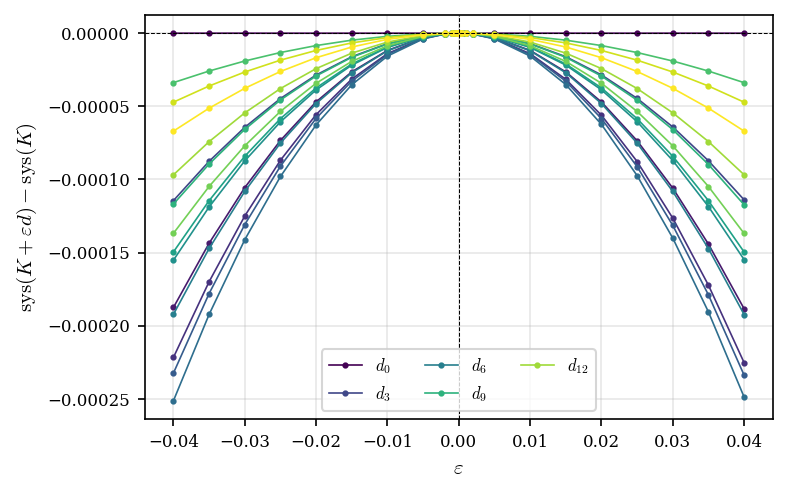
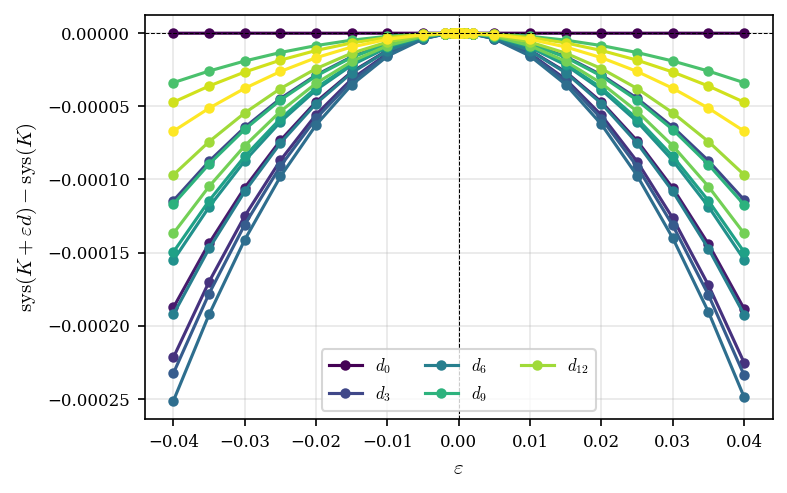
Address review findings: add math.tex TODO, use figure_config constants

diff --git a/crates/exp-hko-local-maximum/second-order/analyze.py b/crates/exp-hko-local-maximum/second-order/analyze.py
@@ -17,7 +17,7 @@ import numpy as np
 from scipy.optimize import linprog
 
 sys.path.insert(0, str(Path(__file__).resolve().parent.parent.parent))
-from figure_config import setup, FIGSIZE_SINGLE
+from figure_config import setup, FIGSIZE_SINGLE, MARKER_SIZE, LINE_WIDTH
 
 import matplotlib.pyplot as plt
 
@@ -196,7 +196,7 @@ def plot_curves(base, curves, dir_curvatures):
         rows = sorted(by_dir[d_idx], key=lambda r: r["epsilon"])
         eps = [r["epsilon"] for r in rows]
         delta = [r["sys"] - sys_base for r in rows]
-        ax.plot(eps, delta, 'o-', color=colors[d_idx], markersize=2, linewidth=0.8,
+        ax.plot(eps, delta, 'o-', color=colors[d_idx], markersize=MARKER_SIZE, linewidth=LINE_WIDTH,
                 label=f"$d_{{{d_idx}}}$" if d_idx % 3 == 0 else None)
 
     ax.axhline(0, color='k', linewidth=0.5, linestyle='--')

diff --git a/crates/exp-hko-local-maximum/second-order/run.rs b/crates/exp-hko-local-maximum/second-order/run.rs
@@ -160,6 +160,11 @@ fn ehz_capacity_instrumented(polytope: &Polytope4D) -> Option<InstrumentedResult
 ///
 /// ∇_{a_i} sys = (c · ∇_{a_i} c_orbit - sys · ∇_{a_i} vol) / vol
 ///
+/// This is the quotient rule applied to sys = c²/(2·vol):
+/// ∂sys/∂a_k = (c/vol) · ∂c/∂a_k − (sys/vol) · ∂vol/∂a_k.
+/// Per-orbit: uses ∂c_i/∂a_k from [lem:cap-derivative] and ∂vol/∂a_k from [lem:vol-derivative].
+/// // TODO: add [lem:sys-derivative] to math.tex — quotient rule for sys = c²/(2vol)
+///
 /// Requires re-solving KKT to obtain the multiplier μ (not stored in JSONL).
 fn orbit_sys_gradient_a(
     polytope: &Polytope4D,
